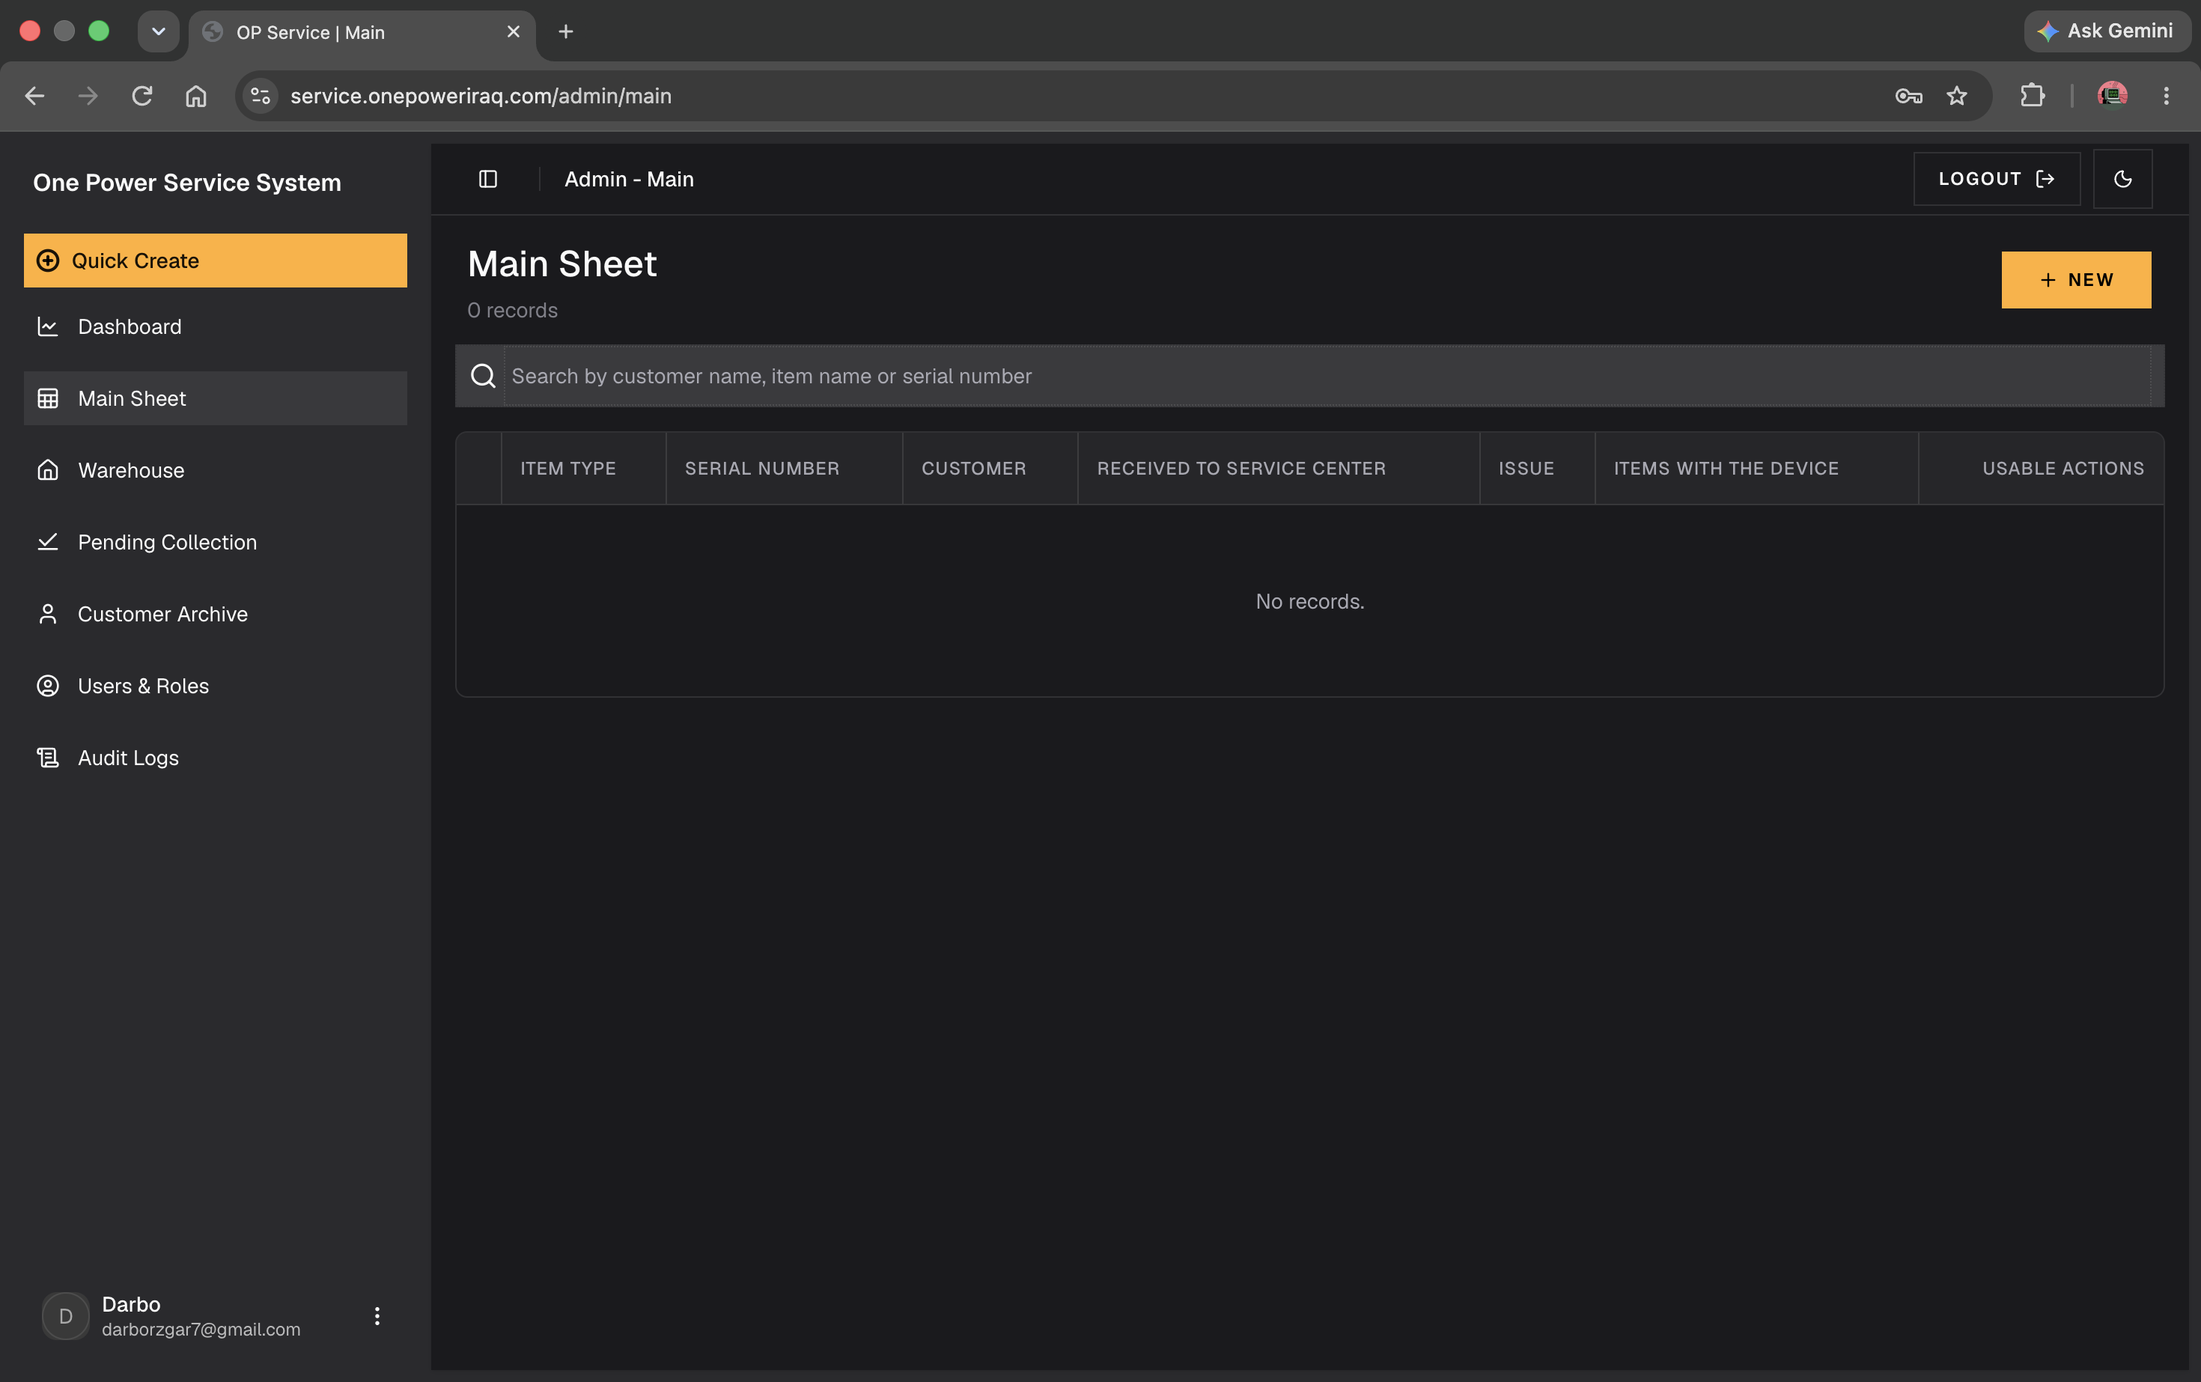
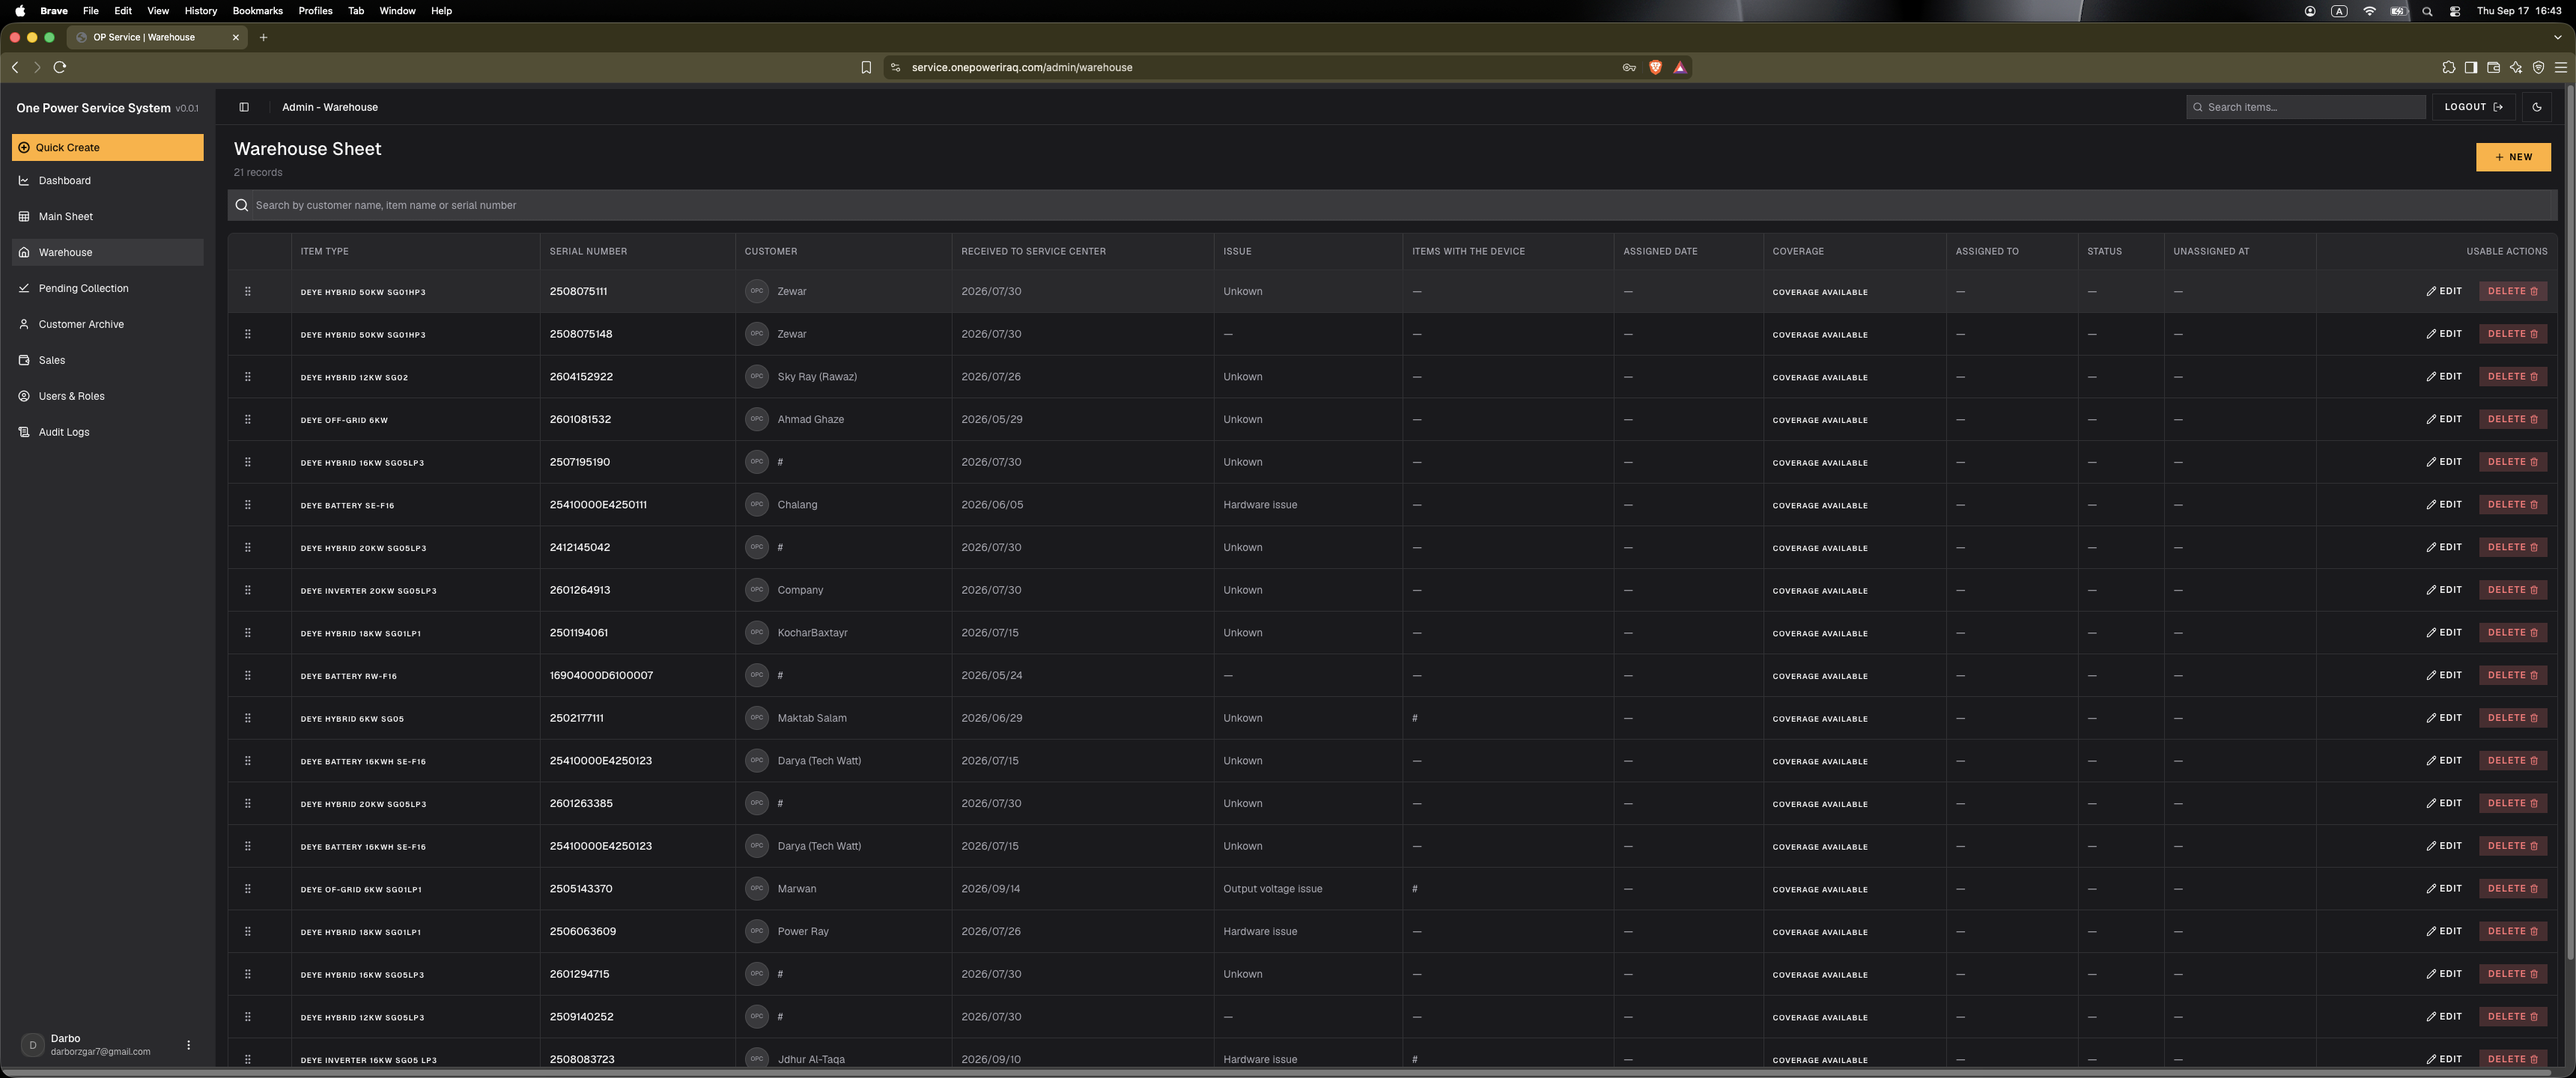
fix

diff --git a/components/landing/hero-section.tsx b/components/landing/hero-section.tsx
@@ -78,19 +78,13 @@ function HeroSection() {
             animate={{ opacity: 1, y: 0 }}
             transition={{ duration: 1 }}
             id="home"
-            className="min-h-screen w-full flex p-4 flex-col lg:flex-row justify-between items-center gap-10 px-20 pt-32 border-b border-muted/80"
+            className="min-h-screen mx-auto w-full flex p-4 flex-col lg:flex-row justify-between items-center gap-10 px-20 pt-32 border-b border-muted/80"
         >
             <div className="flex flex-col gap-2 max-w-xl">
-                <Badge variant={'outline'} className="flex items-center gap-2 w-fit mb-3">
-                    <div className="relative flex items-center justify-center">
-                        <span className="absolute inline-flex h-2 w-2 rounded-full bg-green-400 opacity-75 animate-ping"></span>
-                        <span className="relative inline-flex h-2 w-2 rounded-full bg-green-400"></span>
-                    </div>
-                    Available for work
-                </Badge>
+             
 
                 <h1 className="text-3xl md:text-5xl font-thin text-foreground/90 leading-tight">
-                    Hi, I'm <span className="font-bold">Darbaz</span> —
+                    Hi, I&apos;m <span className="font-bold">Darbaz</span> —
                     <br />
                     <span className="font-semibold">
                         Full Stack Developer

diff --git a/components/landing/top-navbar.tsx b/components/landing/top-navbar.tsx
@@ -14,18 +14,13 @@ function TopNavbar() {
                 <Avatar>
                     <AvatarImage sizes="20 40" src={'https://darbodev.vercel.app/assets/me-Dv2SGOg_.jpg'} />
                     <AvatarFallback>DR</AvatarFallback>
-                    <AvatarBadge className="bg-gradient-to-br from-primary/50 to-green-300/80">
-                        <div className="relative flex items-center justify-center">
-                            <span className="absolute inline-flex h-2 w-2 rounded-full bg-gradient-to-br from-primary/50 to-green-300 opacity-75 animate-ping"></span>
-                            <span className="relative inline-flex h-2 w-2 rounded-full bg-gradient-to-br from-primary/50 to-green-300"></span>
-                        </div>
-                    </AvatarBadge>
+                   
                 </Avatar>
                 <button
                     onClick={handleScrollHome}
                     className="font-bold text-2xl cursor-pointer bg-gradient-to-br from-primary/50 to-green-300/80 bg-clip-text text-transparent py-1 px-2"
                 >
-                    DevDarbo
+                    Darbo Dev
                 </button>
             </div>
             <div>

diff --git a/app/footer/page.tsx b/app/footer/page.tsx
@@ -17,7 +17,7 @@ function Footer() {
         { label: "Services", to: "services" },
         { label: "Contact", to: "contact" },
     ];
-
+    
     const socials = [
         { icon: SiGithub, href: "https://github.com/darbazrzgarsalih", label: "GitHub" },
         { icon: Mail, href: "mailto:darborzgar7@gmail.com", label: "Email" },
